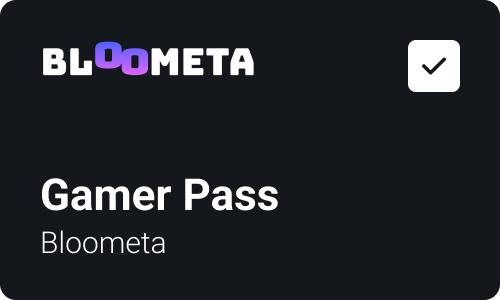
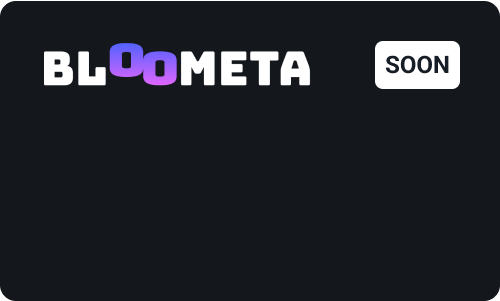
add blommeta pass card in discover #1391

diff --git a/lib/app/shared/constants/constant_list.dart b/lib/app/shared/constants/constant_list.dart
@@ -9,10 +9,13 @@ class DiscoverList {
     CredentialSubjectType.matterlightPass,
     // CredentialSubjectType.dogamiPass,
     CredentialSubjectType.bunnyPass,
+    CredentialSubjectType.bloometaPass,
   ];
+
   static final List<CredentialSubjectType> communityCategories = [
     // CredentialSubjectType.talaoCommunityCard
   ];
+
   static final List<CredentialSubjectType> identityCategories = [
     CredentialSubjectType.emailPass,
     //CredentialSubjectType.gender,
@@ -25,5 +28,6 @@ class DiscoverList {
     CredentialSubjectType.phonePass,
     CredentialSubjectType.twitterCard,
   ];
+
   static final List<CredentialSubjectType> myProfessionalCategories = [];
 }

diff --git a/lib/app/shared/enum/type/credential_subject_type/credential_subject_type_extension.dart b/lib/app/shared/enum/type/credential_subject_type/credential_subject_type_extension.dart
@@ -154,7 +154,8 @@ extension CredentialSubjectTypeExtension on CredentialSubjectType {
         this == CredentialSubjectType.pigsPass ||
         this == CredentialSubjectType.bunnyPass ||
         this == CredentialSubjectType.troopezPass ||
-        this == CredentialSubjectType.matterlightPass) {
+        this == CredentialSubjectType.matterlightPass ||
+        this == CredentialSubjectType.bloometaPass) {
       return true;
     }
     return false;

diff --git a/lib/dashboard/home/tab_bar/credentials/models/home_credential/home_credential.dart b/lib/dashboard/home/tab_bar/credentials/models/home_credential/home_credential.dart
@@ -247,6 +247,9 @@ class HomeCredential extends Equatable {
         break;
 
       case CredentialSubjectType.bloometaPass:
+        image = ImageStrings.bloometaPass;
+        break;
+
       case CredentialSubjectType.voucher:
       case CredentialSubjectType.selfIssued:
       case CredentialSubjectType.defaultCredential:
